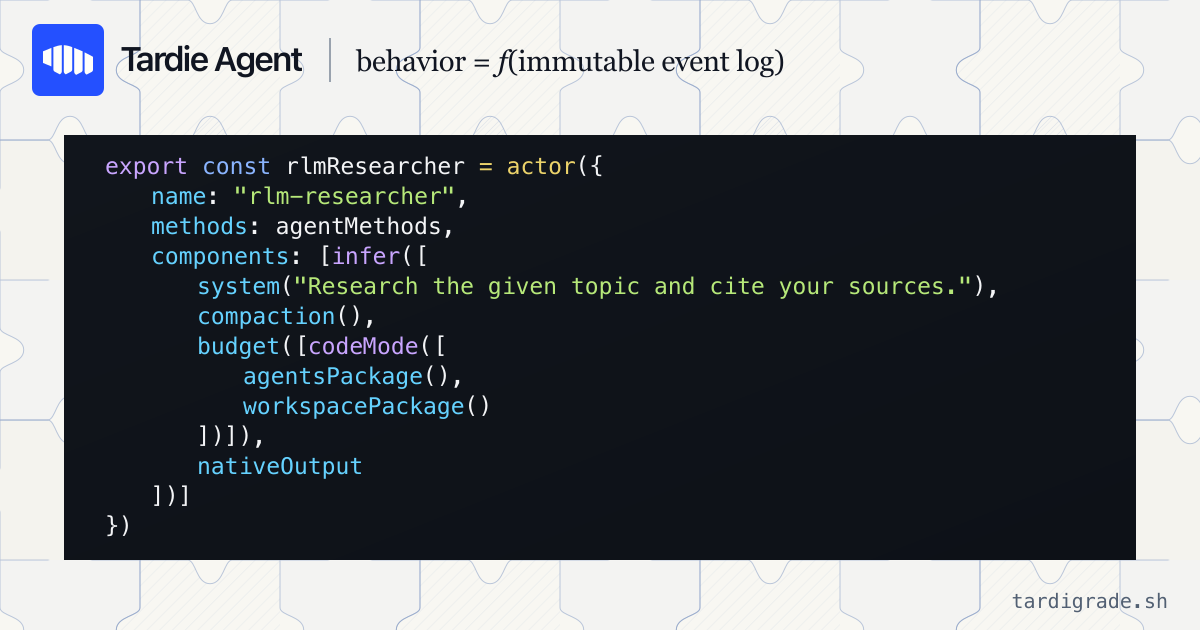
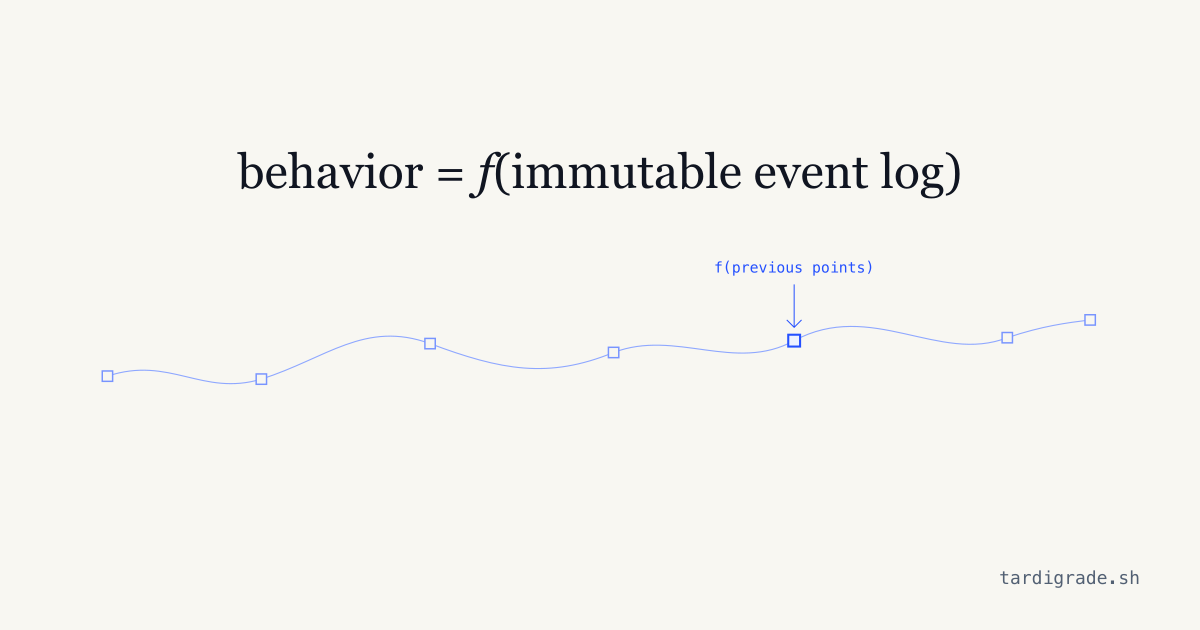
docs(web): refine why visuals (#342)

diff --git a/apps/web/src/styles.css b/apps/web/src/styles.css
@@ -121,8 +121,9 @@ svg { display: block; }
 .nav-actions { margin-left: auto; display: flex; align-items: center; gap: 24px; color: var(--ink-2); }
 .guide-link { font-size: 16px; font-weight: 500; letter-spacing: -.01em; }
 .guide-link[aria-current="page"] { color: var(--moss-ink); }
-.github-link { width: 24px; height: 24px; }
-.github-link svg { width: 100%; height: 100%; }
+.github-link, .discord-link { width: 24px; height: 24px; }
+.github-link svg, .discord-link svg { width: 100%; height: 100%; }
+.header-theme-toggle { display: grid; place-items: center; }
 .console-link { padding: 9px 14px; border: 1px solid rgb(var(--accent-rgb) / 38%); color: var(--moss-ink); font-family: var(--mono); font-size: 14px; }
 .console-link[aria-current="page"] { background: var(--moss-wash); }
 .mobile-menu-trigger, .mobile-nav-panel { display: none; }
@@ -328,6 +329,20 @@ h1 span { display: block; white-space: nowrap; }
 .trajectory-nodes { fill: var(--bg); stroke: rgb(var(--accent-rgb) / 52%); stroke-width: 1; vector-effect: non-scaling-stroke; }
 .trajectory-nodes rect:last-child { fill: var(--moss-wash); stroke: var(--moss); }
 .trajectory-exit { fill: none; stroke: var(--moss); stroke-width: 1; vector-effect: non-scaling-stroke; }
+.trajectory-branches-diagram { width: 100%; height: auto; margin: 22px 0 30px; display: block; overflow: visible; }
+.trajectory-branches-paths { fill: none; stroke: rgb(var(--accent-rgb) / 30%); stroke-width: 1; vector-effect: non-scaling-stroke; }
+.trajectory-branches-paths .trajectory-branches-lead { stroke: var(--moss); stroke-width: 1.25; }
+.trajectory-branches-nodes { fill: var(--bg); stroke: rgb(var(--accent-rgb) / 52%); stroke-width: 1; vector-effect: non-scaling-stroke; }
+.trajectory-branches-nodes .trajectory-branches-origin { fill: var(--moss-wash); stroke: var(--moss); }
+.trajectory-branches-uncertainty { fill: var(--faint); font-family: var(--mono); font-size: 11px; opacity: .72; }
+.trajectory-branches-time text { fill: var(--faint); font-family: var(--mono); font-size: 9px; letter-spacing: .08em; }
+.trajectory-branches-time path { fill: none; stroke: rgb(var(--accent-rgb) / 42%); stroke-width: 1; vector-effect: non-scaling-stroke; }
+.behavior-trajectory-diagram { width: min(100%, 720px); height: auto; margin: -8px 0 26px; display: block; overflow: visible; }
+.behavior-trajectory-path { fill: none; stroke: rgb(var(--accent-rgb) / 38%); stroke-width: 1; vector-effect: non-scaling-stroke; }
+.behavior-trajectory-points { fill: var(--bg); stroke: rgb(var(--accent-rgb) / 52%); stroke-width: 1; vector-effect: non-scaling-stroke; }
+.behavior-trajectory-points .behavior-trajectory-current { fill: var(--moss-wash); stroke: var(--moss); stroke-width: 1.25; }
+.behavior-trajectory-annotation text { fill: var(--moss-ink); font-family: var(--mono); font-size: 10px; text-anchor: middle; }
+.behavior-trajectory-annotation path { fill: none; stroke: var(--moss); stroke-width: 1; vector-effect: non-scaling-stroke; }
 .observability-log { align-self: center; border: 1px solid rgb(var(--accent-rgb) / 38%); background: var(--surface); font-family: var(--mono); }
 .observability-log-header { min-height: 42px; padding: 0 13px; display: flex; align-items: center; justify-content: space-between; border-bottom: 1px solid rgb(var(--accent-rgb) / 28%); color: var(--ink-2); font-size: 11px; letter-spacing: .06em; text-transform: uppercase; }
 .observability-live { display: inline-flex; align-items: center; gap: 7px; color: var(--moss-ink); }
@@ -610,17 +625,31 @@ h1 span { display: block; white-space: nowrap; }
 .component-diagram-detail { fill: var(--ink-2); font-family: var(--mono); font-size: 11px; }
 .component-diagram-connectors path { fill: none; stroke: rgb(var(--accent-rgb) / 62%); stroke-width: 1.25; marker-end: url(#component-diagram-arrow); vector-effect: non-scaling-stroke; }
 .component-diagram marker path { fill: var(--moss-ink); }
-.compaction-machine-frame { width: 100%; overflow-x: auto; overscroll-behavior-inline: contain; }
-.compaction-machine-diagram { min-width: 540px; width: min(100%, 640px); height: auto; margin: 10px auto 0; display: block; }
-.compaction-machine-node rect, .compaction-machine-state rect { fill: transparent; stroke: rgb(var(--accent-rgb) / 42%); stroke-width: 1; vector-effect: non-scaling-stroke; }
-.compaction-machine-state rect { fill: var(--moss-wash); stroke: var(--moss); }
-.compaction-machine-kind { fill: var(--faint); font-family: var(--mono); font-size: 11px; letter-spacing: .08em; text-transform: uppercase; }
-.compaction-machine-value { fill: var(--ink); font-family: var(--mono); font-size: 16px; }
-.compaction-machine-detail { fill: var(--ink-2); font-family: var(--mono); font-size: 12px; }
-.compaction-machine-code { fill: var(--moss-ink); font-family: var(--mono); font-size: 10px; text-anchor: end; }
-.compaction-machine-connectors path { fill: none; stroke: rgb(var(--accent-rgb) / 62%); stroke-width: 1.25; marker-end: url(#compaction-machine-arrow); vector-effect: non-scaling-stroke; }
-.compaction-machine-diagram marker path { fill: var(--moss-ink); }
-.compaction-machine-labels { fill: var(--faint); font-family: var(--mono); font-size: 10px; letter-spacing: .04em; }
+.compaction-machine-frame { width: 100%; margin-bottom: 32px; overflow-x: auto; overscroll-behavior-inline: contain; }
+.compaction-machine-diagram { position: relative; min-width: 698px; width: min(100%, 740px); margin: 24px auto 0; padding-bottom: 58px; display: grid; grid-template-columns: 230px 54px 230px 54px 130px; align-items: center; }
+.compaction-flow-stage { min-width: 0; }
+.compaction-flow-kind { display: block; color: var(--faint); font-family: var(--mono); font-size: 10px; letter-spacing: .08em; text-transform: uppercase; }
+.compaction-flow-event-log { width: 100%; margin-top: 10px; }
+.compaction-flow-event-log li { min-height: 28.125px; padding: 3px 12px; gap: 6px; box-sizing: border-box; }
+.compaction-flow-event-log li::before { width: 24px; font-size: 9px; }
+.compaction-flow-event-log code { font-size: 11px; }
+.compaction-flow-event-log code + code { font-size: 9px; }
+.compaction-flow-arrow { display: grid; justify-items: center; gap: 5px; color: var(--faint); }
+.compaction-flow-arrow span { font-family: var(--mono); font-size: 9px; letter-spacing: .04em; }
+.compaction-flow-arrow svg { width: 48px; height: 20px; overflow: visible; }
+.compaction-flow-arrow path { fill: none; stroke: rgb(var(--accent-rgb) / 62%); stroke-linecap: square; stroke-linejoin: miter; stroke-width: 1.25; vector-effect: non-scaling-stroke; }
+.compaction-flow-context-value { margin-top: 10px; display: grid; border: 1px solid rgb(var(--accent-rgb) / 38%); background: var(--surface); box-sizing: border-box; }
+.compaction-flow-context-type { padding: 10px 12px; border-bottom: 1px dashed rgb(var(--accent-rgb) / 26%); color: var(--faint); font-family: var(--mono); font-size: 9px; }
+.compaction-flow-context-section > span { display: block; padding: 9px 12px 5px; color: var(--faint); font-family: var(--mono); font-size: 9px; letter-spacing: .05em; text-transform: uppercase; }
+.compaction-flow-context-section > div { min-height: 42px; padding: 8px 12px; display: grid; grid-template-columns: 52px minmax(0, 1fr); align-items: center; gap: 8px; border-top: 1px dashed rgb(var(--accent-rgb) / 26%); box-sizing: border-box; }
+.compaction-flow-context-section code { color: var(--moss-ink); font-family: var(--mono); font-size: 9px; }
+.compaction-flow-context-section p { margin: 0; overflow: hidden; color: var(--ink); font-family: var(--mono); font-size: 10px; line-height: 1.35; text-overflow: ellipsis; white-space: nowrap; }
+.compaction-flow-context-summary { background: var(--moss-wash); }
+.compaction-flow-context-tail { background: rgb(var(--accent-rgb) / 9%); }
+.compaction-flow-inference { min-height: 90px; padding: 16px; display: grid; align-content: center; border: 1px solid rgb(var(--accent-rgb) / 38%); background: var(--surface); box-sizing: border-box; }
+.compaction-flow-return { position: absolute; inset: 0; width: 100%; height: 100%; overflow: visible; pointer-events: none; }
+.compaction-flow-return path { fill: none; stroke: rgb(var(--accent-rgb) / 62%); stroke-linecap: square; stroke-linejoin: miter; stroke-width: 1.25; vector-effect: non-scaling-stroke; }
+.compaction-flow-return text { fill: var(--faint); font-family: var(--mono); font-size: 9px; letter-spacing: .04em; text-anchor: middle; }
 .harness-diagram-frame { width: 100%; overflow-x: auto; overscroll-behavior-inline: contain; }
 .harness-diagram { min-width: 540px; width: min(100%, 640px); height: auto; margin: 8px auto 0; display: block; }
 .harness-diagram-node rect, .harness-diagram-component rect { fill: transparent; stroke: rgb(var(--accent-rgb) / 42%); stroke-width: 1; vector-effect: non-scaling-stroke; }
@@ -674,7 +703,7 @@ h1 span { display: block; white-space: nowrap; }
 
 @media (max-width: 800px) {
   .nav-brand-group > .guide-link { display: none; }
-  .brand > span, .console-link, .github-link { display: none; }
+  .brand > span, .console-link, .github-link, .discord-link, .header-theme-toggle { display: none; }
   .mobile-menu-trigger { min-height: 38px; padding: 7px 10px; display: inline-flex; align-items: center; gap: 8px; border: 1px dashed rgb(var(--accent-rgb) / 48%); background: var(--surface); color: var(--ink); cursor: pointer; font-size: 13px; font-weight: 500; transition: transform 140ms var(--ease-out), background-color 160ms ease, border-color 160ms ease; }
   .mobile-menu-trigger:active { transform: scale(.97); }
   .mobile-menu-icon { position: relative; width: 14px; height: 12px; display: block; }
@@ -703,8 +732,8 @@ h1 span { display: block; white-space: nowrap; }
   .guide-sidebar > span:first-child, .guide-sidebar > .guide-sidebar-section, .guide-sidebar > .guide-coming-soon { display: none; }
   .guide-article { min-width: 0; }
   .guide-article { padding-top: 44px; }
-  :is(.transition-loop-frame, .component-diagram-frame, .compaction-machine-frame, .harness-diagram-frame, .primitive-diagram-frame, .method-diagram-frame) { overflow-x: hidden; }
-  :is(.actor-diagram, .transition-loop, .component-diagram, .compaction-machine-diagram, .harness-diagram, .primitive-diagram, .method-diagram) { min-width: 0; width: min(100%, 560px); margin-top: 0; }
+  :is(.transition-loop-frame, .component-diagram-frame, .harness-diagram-frame, .primitive-diagram-frame, .method-diagram-frame) { overflow-x: hidden; }
+  :is(.actor-diagram, .transition-loop, .component-diagram, .harness-diagram, .primitive-diagram, .method-diagram) { min-width: 0; width: min(100%, 560px); margin-top: 0; }
   .cli-command-row { grid-template-columns: 1fr; gap: 6px; }
   .concept-section { grid-template-columns: 1fr; gap: 24px; }
   .concept-section-actors .actor-concept-illustration { grid-template-columns: minmax(220px, .9fr) 60px minmax(250px, 1.1fr); }
@@ -721,8 +750,9 @@ h1 span { display: block; white-space: nowrap; }
   .guide-article > p:not(.guide-intro) { font-size: 16px; }
   .copy-markdown { width: 44px; padding: 11px; justify-content: center; }
   .copy-markdown span { display: none; }
+  .behavior-trajectory-annotation text { font-size: 18px; }
   .interface-comparison { padding: 16px; }
-  :is(.actor-diagram, .transition-loop, .component-diagram, .compaction-machine-diagram, .harness-diagram, .primitive-diagram, .method-diagram) { width: 100%; }
+  :is(.actor-diagram, .transition-loop, .component-diagram, .harness-diagram, .primitive-diagram, .method-diagram) { width: 100%; }
   .guide-command { width: 100%; }
   .example-source-heading { margin-top: 24px; }
   .example-source-heading > a { font-size: 0; }

diff --git a/apps/web/src/docs/components/diagrams/CompactionMachineDiagram.tsx b/apps/web/src/docs/components/diagrams/CompactionMachineDiagram.tsx
@@ -1,71 +1,75 @@
 import type { ReactElement } from "react"
 
+const FlowArrow = ({ label }: { readonly label: string }): ReactElement => (
+  <div className="compaction-flow-arrow" aria-hidden="true">
+    <span>{label}</span>
+    <svg viewBox="0 0 48 20">
+      <path d="M1 10H43M38 5l5 5-5 5" />
+    </svg>
+  </div>
+)
+
 export const CompactionMachineDiagram = (): ReactElement => (
-  <svg
+  <div
     className="compaction-machine-diagram"
-    viewBox="0 0 720 535"
     role="img"
-    aria-label="Events advance the compaction state machine. Its output supplies a bounded context policy and may enable a compaction effect. The effect records CompactionCompleted, which advances the machine to a new checkpoint and retained transcript."
+    aria-label="The immutable event log contains a CompactionCompleted checkpoint. A projection converts its summary and the retained event tail into model messages, which are sent to inference. Inference appends new events to the log."
   >
-    <defs>
-      <marker id="compaction-machine-arrow" viewBox="0 0 8 8" refX="7" refY="4" markerWidth="7" markerHeight="7" orient="auto">
-        <path d="M0 0L8 4L0 8Z" />
-      </marker>
-    </defs>
+    <section className="compaction-flow-stage">
+      <span className="compaction-flow-kind">immutable event log</span>
+      <div className="docs-event-log compaction-flow-event-log">
+        <ol>
+          <li><code>MessageReceived</code></li>
+          <li><code>ToolCalled</code></li>
+          <li><code>ToolReturned</code></li>
+          <li><code>ToolCalled</code></li>
+          <li><code>ToolReturned</code></li>
+          <li><code>TextReturned</code></li>
+          <li><code>MessageReceived</code></li>
+          <li><code>ToolCalled</code></li>
+          <li><code>ToolReturned</code></li>
+          <li><code>CompactionCompleted</code><code>summary</code></li>
+          <li><code>MessageReceived</code></li>
+          <li><code>ToolCalled</code></li>
+          <li><code>MessageReceived</code></li>
+          <li><code>ToolCalled</code></li>
+          <li><code>ToolReturned</code></li>
+          <li><code>TextReturned</code></li>
+        </ol>
+      </div>
+    </section>
 
-    <g className="compaction-machine-node" transform="translate(230 10)">
-      <rect width="260" height="64" />
-      <text className="compaction-machine-kind" x="22" y="24">event input</text>
-      <text className="compaction-machine-value" x="22" y="49">eₙ</text>
-    </g>
+    <FlowArrow label="project" />
 
-    <g className="compaction-machine-state" transform="translate(125 115)">
-      <rect width="470" height="105" />
-      <text className="compaction-machine-kind" x="24" y="27">compaction state</text>
-      <text className="compaction-machine-value" x="24" y="58">checkpoint + retained transcript</text>
-      <text className="compaction-machine-detail" x="24" y="84">token count + round boundary</text>
-      <text className="compaction-machine-code" x="446" y="91">step(state, event)</text>
-    </g>
+    <section className="compaction-flow-stage compaction-flow-context">
+      <span className="compaction-flow-kind">model context</span>
+      <div className="compaction-flow-context-value">
+        <code className="compaction-flow-context-type">ReadonlyArray&lt;AgentMessage&gt;</code>
+        <div className="compaction-flow-context-section compaction-flow-context-summary">
+          <span>summary from checkpoint</span>
+          <div><code>user</code><p>Summary of earlier work…</p></div>
+        </div>
+        <div className="compaction-flow-context-section compaction-flow-context-tail">
+          <span>projected conversation tail</span>
+          <div><code>user</code><p>Retained message…</p></div>
+          <div><code>assistant</code><p>tool call…</p></div>
+          <div><code>tool</code><p>tool result…</p></div>
+          <div><code>user</code><p>New message…</p></div>
+          <div><code>assistant</code><p>tool call…</p></div>
+        </div>
+      </div>
+    </section>
 
-    <g className="compaction-machine-node compaction-machine-view" transform="translate(30 285)">
-      <rect width="290" height="76" />
-      <text className="compaction-machine-kind" x="22" y="27">view</text>
-      <text className="compaction-machine-value" x="22" y="55">bounded context policy</text>
-    </g>
+    <FlowArrow label="send" />
 
-    <g className="compaction-machine-node compaction-machine-transition" transform="translate(400 285)">
-      <rect width="290" height="76" />
-      <text className="compaction-machine-kind" x="22" y="27">transition</text>
-      <text className="compaction-machine-value" x="22" y="55">summarize older span</text>
-    </g>
+    <section className="compaction-flow-inference">
+      <span className="compaction-flow-kind">inference</span>
+    </section>
 
-    <g className="compaction-machine-node compaction-machine-inference" transform="translate(30 440)">
-      <rect width="290" height="76" />
-      <text className="compaction-machine-kind" x="22" y="27">inference transcript</text>
-      <text className="compaction-machine-value" x="22" y="55">summary + retained tail</text>
-    </g>
-
-    <g className="compaction-machine-node compaction-machine-event" transform="translate(400 440)">
-      <rect width="290" height="76" />
-      <text className="compaction-machine-kind" x="22" y="27">event appended</text>
-      <text className="compaction-machine-value" x="22" y="55">CompactionCompleted</text>
-    </g>
-
-    <g className="compaction-machine-connectors" aria-hidden="true">
-      <path d="M360 74V115" />
-      <path d="M360 220V255H175V285" />
-      <path d="M360 220V255H545V285" />
-      <path d="M175 361V440" />
-      <path d="M545 361V440" />
-      <path d="M690 478H708V42H490" />
-    </g>
-
-    <g className="compaction-machine-labels" aria-hidden="true">
-      <text x="380" y="98">step</text>
-      <text x="378" y="248">output(state)</text>
-      <text x="194" y="408">render</text>
-      <text x="565" y="408">execute</text>
-      <text x="590" y="30">next input</text>
-    </g>
-  </svg>
+    <svg className="compaction-flow-return" viewBox="0 0 698 530" preserveAspectRatio="none" aria-hidden="true">
+      <path d="M633 281V510H115V477" />
+      <path d="m110 482 5-5 5 5" />
+      <text x="374" y="503">append events</text>
+    </svg>
+  </div>
 )

diff --git a/apps/web/src/docs/components/diagrams/TrajectoryBranchesDiagram.tsx b/apps/web/src/docs/components/diagrams/TrajectoryBranchesDiagram.tsx
@@ -1,0 +1,42 @@
+import type { ReactElement } from "react"
+
+const trajectoryPoints = [
+  [194, 55], [410, 48], [684, 28],
+  [206, 86], [434, 82], [694, 68],
+  [226, 102], [456, 110], [682, 102],
+  [258, 118], [500, 124], [692, 122],
+  [224, 146], [438, 150], [680, 164],
+  [208, 174], [430, 180], [694, 194],
+  [264, 80], [520, 142], [690, 176],
+  [274, 190], [582, 138], [700, 144]
+] as const
+
+export const TrajectoryBranchesDiagram = (): ReactElement => (
+  <svg className="trajectory-branches-diagram" viewBox="0 0 720 244" role="img" aria-labelledby="trajectory-branches-title trajectory-branches-description">
+    <title id="trajectory-branches-title">Possible agent trajectories</title>
+    <desc id="trajectory-branches-description">One current state branches into more possible trajectories as the operating horizon grows.</desc>
+    <g className="trajectory-branches-paths">
+      <path d="M32 112C96 92 116 44 194 55S322 29 410 48S548 20 684 28" />
+      <path d="M32 112C102 99 130 78 206 86S340 69 434 82S568 52 694 68" />
+      <path d="M32 112C112 108 152 116 226 102S358 91 456 110S590 90 682 102" />
+      <path className="trajectory-branches-lead" d="M32 112C112 112 182 128 258 118S410 132 500 124S602 126 692 122" />
+      <path d="M32 112C108 122 142 154 224 146S350 166 438 150S570 158 680 164" />
+      <path d="M32 112C96 130 122 186 208 174S340 190 430 180S564 205 694 194" />
+      <path d="M32 112C110 124 176 72 264 80S418 152 520 142S628 176 690 176" />
+      <path d="M32 112C106 110 150 198 274 190S450 110 582 138S650 146 700 144" />
+    </g>
+    <g className="trajectory-branches-nodes">
+      <rect className="trajectory-branches-origin" x="27.5" y="107.5" width="9" height="9" />
+      {trajectoryPoints.map(([x, y], index) => (
+        <rect key={`${x}-${y}`} x={x - (index % 3 === 2 ? 3.5 : 2.5)} y={y - (index % 3 === 2 ? 3.5 : 2.5)} width={index % 3 === 2 ? 7 : 5} height={index % 3 === 2 ? 7 : 5} />
+      ))}
+    </g>
+    <text className="trajectory-branches-uncertainty" x="706" y="126">?</text>
+    <g className="trajectory-branches-time" aria-hidden="true">
+      <text x="24" y="220">NOW</text>
+      <text x="696" y="220" textAnchor="end">LONGER HORIZON</text>
+      <path d="M24 226H696M690 220l6 6-6 6" />
+      <text x="360" y="241" textAnchor="middle">TIME</text>
+    </g>
+  </svg>
+)

diff --git a/apps/web/src/docs/components/index.tsx b/apps/web/src/docs/components/index.tsx
@@ -3,6 +3,7 @@ import { renderToString } from "katex"
 
 import { CheckIcon, CopyIcon, useCopy } from "../../ui/copy"
 import { ActorDiagram } from "./diagrams/ActorDiagram"
+import { BehaviorTrajectoryDiagram } from "./diagrams/BehaviorTrajectoryDiagram"
 import { ComponentDiagram } from "./diagrams/ComponentDiagram"
 import { CompactionMachineDiagram } from "./diagrams/CompactionMachineDiagram"
 import { HarnessDiagram } from "./diagrams/HarnessDiagram"
@@ -10,6 +11,7 @@ import { InterfaceComparisonDiagram } from "./diagrams/InterfaceComparisonDiagra
 import { MethodDiagram } from "./diagrams/MethodDiagram"
 import { PrimitiveDiagram } from "./diagrams/PrimitiveDiagram"
 import { RlmDiagram } from "./diagrams/RlmDiagram"
+import { TrajectoryBranchesDiagram } from "./diagrams/TrajectoryBranchesDiagram"
 import { TransitionLoop } from "./diagrams/TransitionLoop"
 
 const BulbIcon = (): ReactElement => (
@@ -212,6 +214,7 @@ const Tip = ({ children, title }: { readonly children: ReactNode; readonly title
 
 export const mdxComponents = {
   ActorDiagram,
+  BehaviorTrajectoryDiagram,
   Command,
   ComponentDiagram,
   CompactionMachineDiagram,
@@ -226,6 +229,7 @@ export const mdxComponents = {
   PrimitiveDiagram,
   RlmDiagram,
   Tip,
+  TrajectoryBranchesDiagram,
   TransitionLoop,
   a: (props: ComponentPropsWithoutRef<"a">) => <a {...props} />,
   code: InlineCode,

diff --git a/apps/web/src/docs/components/diagrams/BehaviorTrajectoryDiagram.tsx b/apps/web/src/docs/components/diagrams/BehaviorTrajectoryDiagram.tsx
@@ -1,0 +1,18 @@
+import type { ReactElement } from "react"
+
+const points = [[28, 92], [132, 94], [246, 70], [370, 76], [492, 68], [636, 66], [692, 54]] as const
+
+export const BehaviorTrajectoryDiagram = (): ReactElement => (
+  <svg className="behavior-trajectory-diagram" viewBox="0 0 720 132" role="img" aria-labelledby="behavior-trajectory-title behavior-trajectory-description">
+    <title id="behavior-trajectory-title">Behavior along one trajectory</title>
+    <desc id="behavior-trajectory-description">A point on a single trajectory is highlighted as a function of all previous points.</desc>
+    <path className="behavior-trajectory-path" d="M28 92C70 78 92 106 132 94C176 80 202 54 246 70C294 88 326 94 370 76C412 60 452 90 492 68C544 40 590 84 636 66C660 58 676 56 692 54" />
+    <g className="behavior-trajectory-points">
+      {points.map(([x, y], index) => <rect className={index === 4 ? "behavior-trajectory-current" : undefined} key={`${x}-${y}`} x={x - 3.5} y={y - 3.5} width="7" height="7" />)}
+    </g>
+    <g className="behavior-trajectory-annotation" aria-hidden="true">
+      <text x="492" y="24">f(previous points)</text>
+      <path d="M492 32V59M487 54l5 5 5-5" />
+    </g>
+  </svg>
+)

diff --git a/apps/web/src/routes/__root.tsx b/apps/web/src/routes/__root.tsx
@@ -21,12 +21,12 @@ export const Route = createRootRoute({
       { property: "og:image", content: "https://tardigrade.sh/images/tardigrade-social-code-light.png" },
       { property: "og:image:width", content: "1200" },
       { property: "og:image:height", content: "630" },
-      { property: "og:image:alt", content: "A Tardie RLM researcher agent assembled from modular components." },
+      { property: "og:image:alt", content: "Behavior as a function of an immutable event log, shown as a trajectory derived from previous points." },
       { name: "twitter:card", content: "summary_large_image" },
       { name: "twitter:title", content: "Tardie Agent" },
       { name: "twitter:description", content: "A composable harness for durable agents." },
       { name: "twitter:image", content: "https://tardigrade.sh/images/tardigrade-social-code-light.png" },
-      { name: "twitter:image:alt", content: "A Tardie RLM researcher agent assembled from modular components." },
+      { name: "twitter:image:alt", content: "Behavior as a function of an immutable event log, shown as a trajectory derived from previous points." },
       { title: "Tardigrade" }
     ],
     links: [

diff --git a/apps/web/src/docs/components/diagrams/HarnessDiagram.tsx b/apps/web/src/docs/components/diagrams/HarnessDiagram.tsx
@@ -22,14 +22,14 @@ export const HarnessDiagram = (): ReactElement => (
     <g className="harness-diagram-component" transform="translate(120 126)">
       <rect width="480" height="100" />
       <text className="harness-diagram-kind" x="24" y="27">component tree</text>
-      <text className="harness-diagram-value" x="24" y="58">system + compaction + tools + output</text>
+      <text className="harness-diagram-value" x="24" y="58">behaviors</text>
       <text className="harness-diagram-detail" x="24" y="83">state = fold(events, step)</text>
     </g>
 
     <g className="harness-diagram-node harness-diagram-view" transform="translate(30 290)">
       <rect width="300" height="76" />
       <text className="harness-diagram-kind" x="24" y="27">views</text>
-      <text className="harness-diagram-value" x="24" y="55">context + tools + output</text>
+      <text className="harness-diagram-value" x="24" y="55">derived values</text>
     </g>
 
     <g className="harness-diagram-node harness-diagram-transition" transform="translate(390 290)">

diff --git a/apps/web/src/App.tsx b/apps/web/src/App.tsx
@@ -573,6 +573,8 @@ export const SiteShell = ({ children, pathname }: { readonly children: ReactNode
         </div>
         <div className="nav-actions">
           <a className="github-link" href={REPOSITORY} aria-label="Tardigrade on GitHub" rel="noreferrer" target="_blank"><Github /></a>
+          <a className="discord-link" href="https://discord.gg/Z74jwRxz4k" aria-label="Tardigrade on Discord" rel="noreferrer" target="_blank"><Discord /></a>
+          <div className="header-theme-toggle"><ThemeToggle /></div>
           <button className="mobile-menu-trigger" type="button" aria-controls="mobile-navigation" aria-expanded={mobileMenuOpen} ref={menuButtonRef} onClick={() => setMobileMenuOpen((open) => !open)}>
             <MenuIcon />
             <span>Menu</span>
